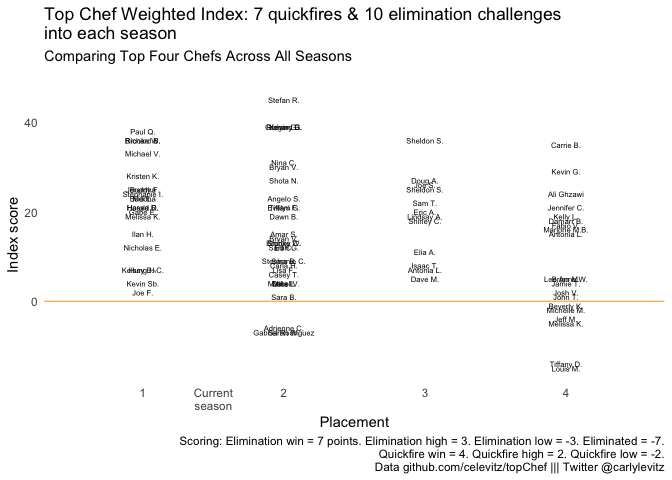
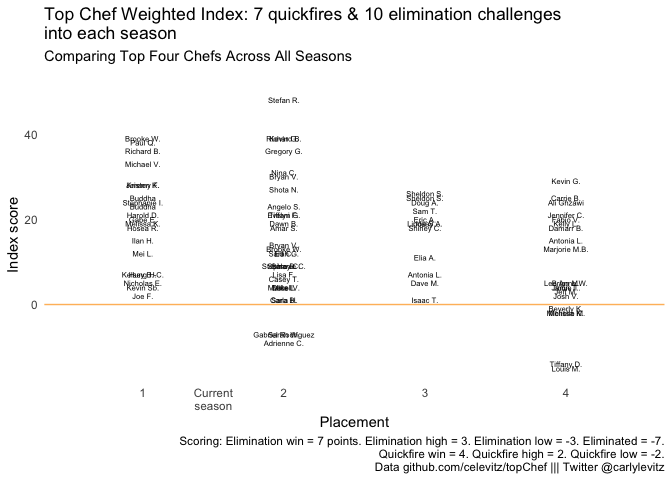
MAJOR: Update readme b/c major update to index function to take care of issue that meant that SDQs and QFEs were getting counted in the scores, but not in number of challenges, leading to inflated #s when there was an elim and a SDQ or QFE in the same episode

diff --git a/README.md b/README.md
@@ -78,7 +78,7 @@ compete in.
 
 ``` r
 challengedescriptions 
-#> # A tibble: 647 × 17
+#> # A tibble: 648 × 17
 #>    season   seasonNumber series episode challengeType outcomeType
 #>    <chr>           <dbl> <chr>    <dbl> <chr>         <chr>      
 #>  1 Kentucky           16 US           1 Quickfire     Team       
@@ -91,7 +91,7 @@ challengedescriptions
 #>  8 Kentucky           16 US           4 Elimination   Team       
 #>  9 Kentucky           16 US           5 Elimination   Team       
 #> 10 Kentucky           16 US           6 Elimination   Individual 
-#> # ℹ 637 more rows
+#> # ℹ 638 more rows
 #> # ℹ 11 more variables: challengeDescription <chr>, shopTime <chr>,
 #> #   shopBudget <chr>, prepTime <dbl>, cookTime <dbl>, productPlacement <chr>,
 #> #   advantage <chr>, lastChanceKitchenWinnerEnters <chr>,
@@ -105,7 +105,7 @@ A tibble containing win and loss data for each chef in each episode.
 
 ``` r
 challengewins
-#> # A tibble: 9,779 × 10
+#> # A tibble: 9,763 × 10
 #>    season   seasonNumber series episode inCompetition immune chef  challengeType
 #>    <chr>           <dbl> <chr>    <dbl> <lgl>         <lgl>  <chr> <chr>        
 #>  1 All Sta…            8 US           1 TRUE          FALSE  Ange… Quickfire    
@@ -118,7 +118,7 @@ challengewins
 #>  8 All Sta…            8 US           1 TRUE          FALSE  Fabi… Quickfire    
 #>  9 All Sta…            8 US           1 TRUE          FALSE  Jami… Quickfire    
 #> 10 All Sta…            8 US           1 TRUE          FALSE  Jenn… Quickfire    
-#> # ℹ 9,769 more rows
+#> # ℹ 9,753 more rows
 #> # ℹ 2 more variables: outcome <chr>, rating <dbl>
 ```
 
@@ -129,7 +129,7 @@ challenge.
 
 ``` r
 judges 
-#> # A tibble: 763 × 11
+#> # A tibble: 765 × 11
 #>    season   seasonNumber series episode challengeType outcomeType guestJudge    
 #>    <chr>           <dbl> <chr>    <dbl> <chr>         <chr>       <chr>         
 #>  1 Canada 6            6 Canada       2 Quickfire     Individual  Danny Bowien  
@@ -142,7 +142,7 @@ judges
 #>  8 Canada 6            6 Canada       5 Quickfire     Individual  Brandon Olsen 
 #>  9 Canada 6            6 Canada       5 Elimination   Team        Alexandra Fes…
 #> 10 Canada 6            6 Canada       6 Quickfire     Individual  Nicole Gomes  
-#> # ℹ 753 more rows
+#> # ℹ 755 more rows
 #> # ℹ 4 more variables: gender <chr>, personOfColor <chr>, competedOnTC <chr>,
 #> #   otherShows <chr>
 ```
@@ -154,7 +154,7 @@ challenge.
 
 ``` r
 rewards
-#> # A tibble: 331 × 9
+#> # A tibble: 333 × 9
 #>    season       seasonNumber series episode challengeType outcomeType rewardType
 #>    <chr>               <dbl> <chr>    <dbl> <chr>         <chr>       <chr>     
 #>  1 All Stars: …            8 US           1 Elimination   Individual  Money     
@@ -167,7 +167,7 @@ rewards
 #>  8 All Stars: …            8 US           4 Elimination   Team        Prize     
 #>  9 All Stars: …            8 US           5 Quickfire     Individual  Prize     
 #> 10 All Stars: …            8 US           6 Elimination   Team        Prize     
-#> # ℹ 321 more rows
+#> # ℹ 323 more rows
 #> # ℹ 2 more variables: reward <chr>, chef <chr>
 ```
 
@@ -177,7 +177,7 @@ A tibble containing information about each episode.
 
 ``` r
 episodeinfo 
-#> # A tibble: 361 × 8
+#> # A tibble: 370 × 8
 #>    season        seasonNumber series overallEpisodeNumber episode episodeName   
 #>    <chr>                <dbl> <chr>                 <dbl>   <dbl> <chr>         
 #>  1 Canada 6                 6 Canada                   60       1 The Next Wave 
@@ -190,7 +190,7 @@ episodeinfo
 #>  8 Canada 6                 6 Canada                   67       8 Finale Four W…
 #>  9 San Francisco            1 US                        1       1 Who Deserves …
 #> 10 San Francisco            1 US                        2       2 Food of Love  
-#> # ℹ 351 more rows
+#> # ℹ 360 more rows
 #> # ℹ 2 more variables: airDate <date>, nCompetitors <dbl>
 ```
 
